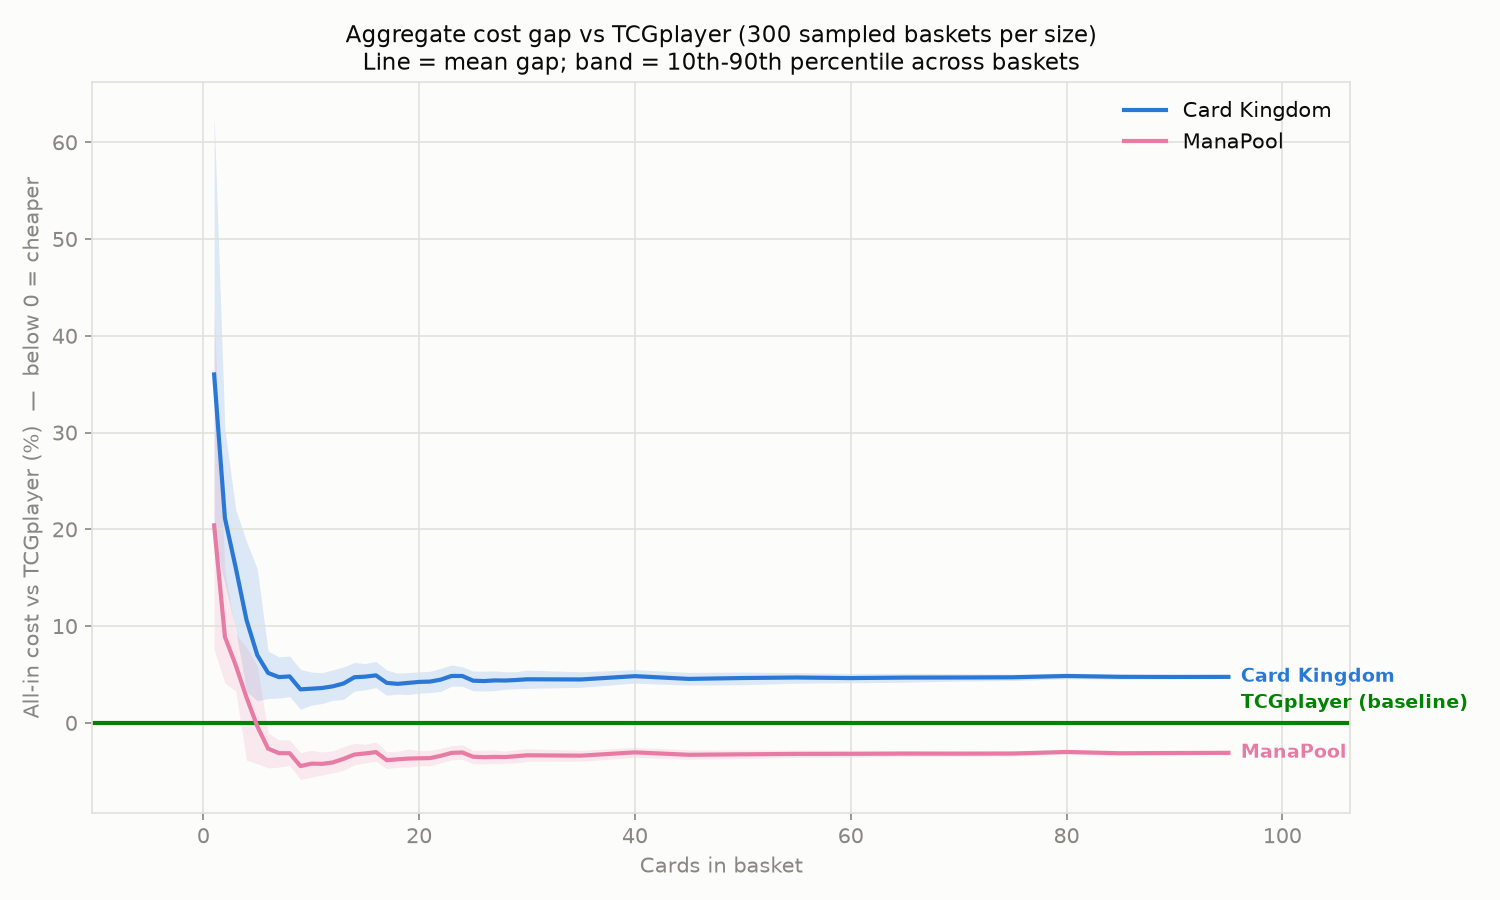
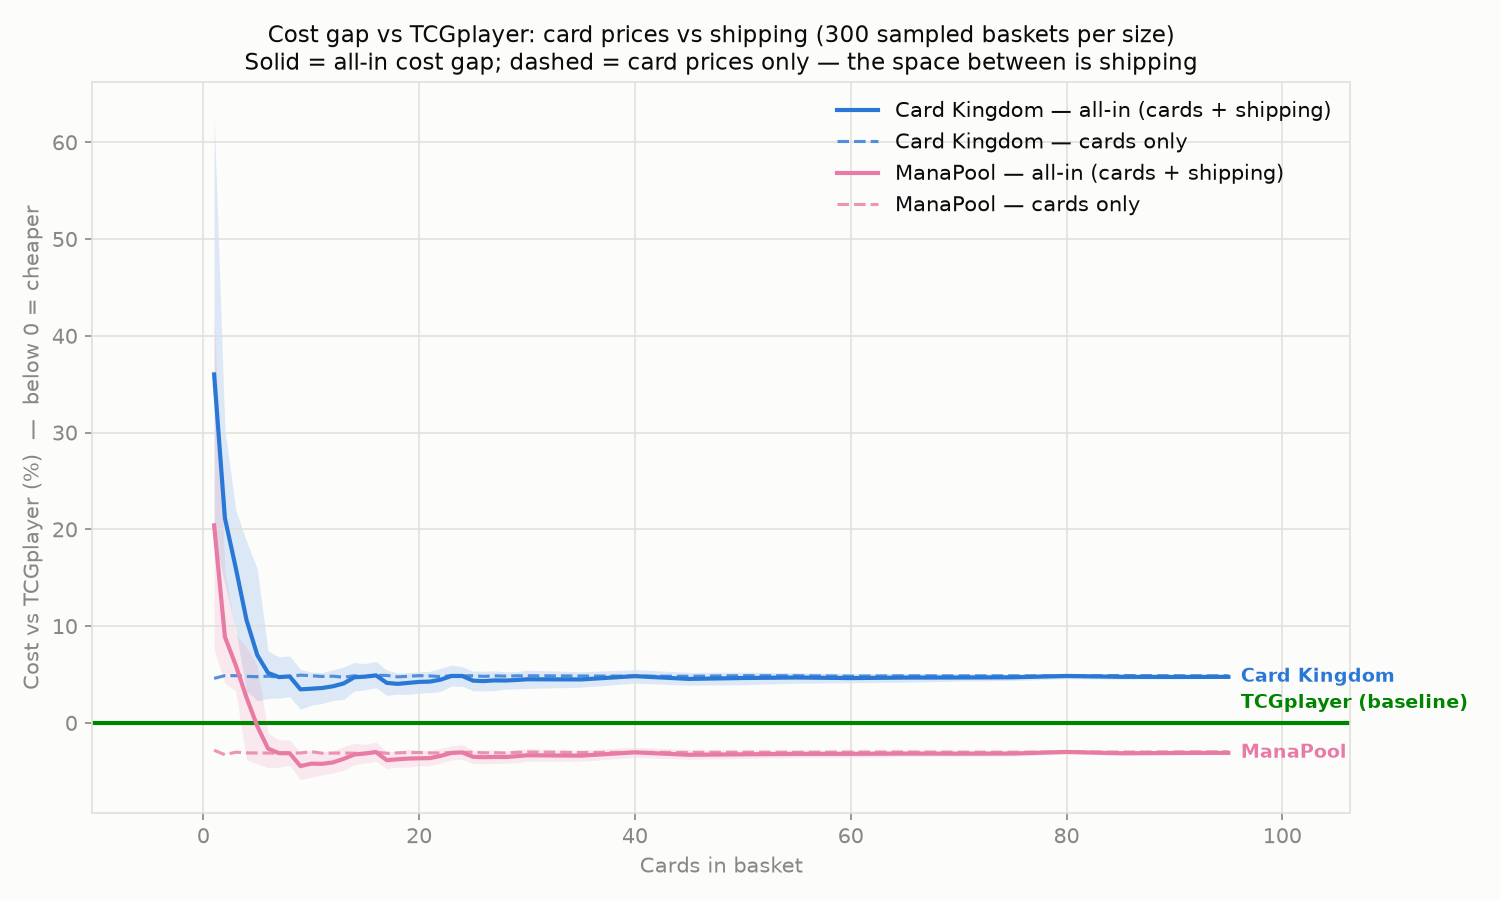
Decompose MC gap chart into card-price vs shipping components
The all-in gap at small baskets (e.g. +36% at one card) is mostly flat
shipping on a tiny order, not card prices — but the chart presented it as
one line, inviting misreading. Each vendor now shows a dashed cards-only
gap alongside the solid all-in gap; the space between them is the
shipping effect, visibly vanishing as orders grow.

Claude-Session: https://claude.ai/code/session_01JfSvnLRd6xKJhXvNadj6Qu

Changed region(s): [[0.1533, 0.0311, 0.8893, 0.2489], [0.0, 0.4667, 0.0307, 0.8089], [0.0, 0.2178, 0.0307, 0.4356]]

diff --git a/mtg_pricebot/plot.py b/mtg_pricebot/plot.py
@@ -90,16 +90,21 @@ def plot_mc_band(mc: pd.DataFrame, out_path: Path, n_samples: int,
             continue
         ax.fill_between(x, mc[f"{v}_gap_p10"], mc[f"{v}_gap_p90"],
                         color=COLORS[v], alpha=0.15, linewidth=0)
-        ax.plot(x, mc[f"{v}_gap_mean"], color=COLORS[v], linewidth=2, label=LABELS[v])
+        ax.plot(x, mc[f"{v}_gap_mean"], color=COLORS[v], linewidth=2,
+                label=f"{LABELS[v]} — all-in (cards + shipping)")
+        if f"{v}_subgap_mean" in mc.columns:
+            ax.plot(x, mc[f"{v}_subgap_mean"], color=COLORS[v], linewidth=1.5,
+                    linestyle="--", alpha=0.8, label=f"{LABELS[v]} — cards only")
         ax.annotate(LABELS[v], (x.iloc[-1], mc[f"{v}_gap_mean"].iloc[-1]),
                     xytext=(6, 0), textcoords="offset points",
                     color=COLORS[v], fontsize=9, fontweight="bold", va="center")
 
     ax.set_xlabel("Cards in basket", color=MUTED)
-    ax.set_ylabel(f"All-in cost vs {LABELS[baseline]} (%)  —  below 0 = cheaper", color=MUTED)
-    ax.set_title(f"Aggregate cost gap vs {LABELS[baseline]} "
+    ax.set_ylabel(f"Cost vs {LABELS[baseline]} (%)  —  below 0 = cheaper", color=MUTED)
+    ax.set_title(f"Cost gap vs {LABELS[baseline]}: card prices vs shipping "
                  f"({n_samples} sampled baskets per size)\n"
-                 "Line = mean gap; band = 10th-90th percentile across baskets",
+                 "Solid = all-in cost gap; dashed = card prices only — "
+                 "the space between is shipping",
                  color=INK, fontsize=11)
     ax.grid(True, color=GRID, linewidth=0.75)
     ax.tick_params(colors=MUTED)

diff --git a/mtg_pricebot/montecarlo.py b/mtg_pricebot/montecarlo.py
@@ -40,6 +40,7 @@ def simulate(cards: pd.DataFrame, prices: pd.DataFrame, cfg: dict,
     rows = []
     for n in sizes:
         gaps = {v: [] for v in VENDORS if v != "tcgplayer"}
+        subgaps = {v: [] for v in VENDORS if v != "tcgplayer"}
         order_values = []
         for _ in range(n_samples):
             idx = rng.choice(len(pool), size=n, replace=False, p=weights)
@@ -57,6 +58,10 @@ def simulate(cards: pd.DataFrame, prices: pd.DataFrame, cfg: dict,
             order_values.append(tcg_sub)
             gaps["cardkingdom"].append((ck_total / tcg_total - 1) * 100)
             gaps["manapool"].append((mp_total / tcg_total - 1) * 100)
+            # Cards-only gap: same baskets, shipping excluded on both sides.
+            # The spread between this and the all-in gap IS the shipping effect.
+            subgaps["cardkingdom"].append((ck_sub / tcg_sub - 1) * 100)
+            subgaps["manapool"].append((mp_sub / tcg_sub - 1) * 100)
 
         row = {"n_cards": n, "order_value_mean": float(np.mean(order_values))}
         for v, g in gaps.items():
@@ -64,5 +69,6 @@ def simulate(cards: pd.DataFrame, prices: pd.DataFrame, cfg: dict,
             row[f"{v}_gap_mean"] = float(g.mean())
             row[f"{v}_gap_p10"] = float(np.percentile(g, 10))
             row[f"{v}_gap_p90"] = float(np.percentile(g, 90))
+            row[f"{v}_subgap_mean"] = float(np.mean(subgaps[v]))
         rows.append(row)
     return pd.DataFrame(rows)
